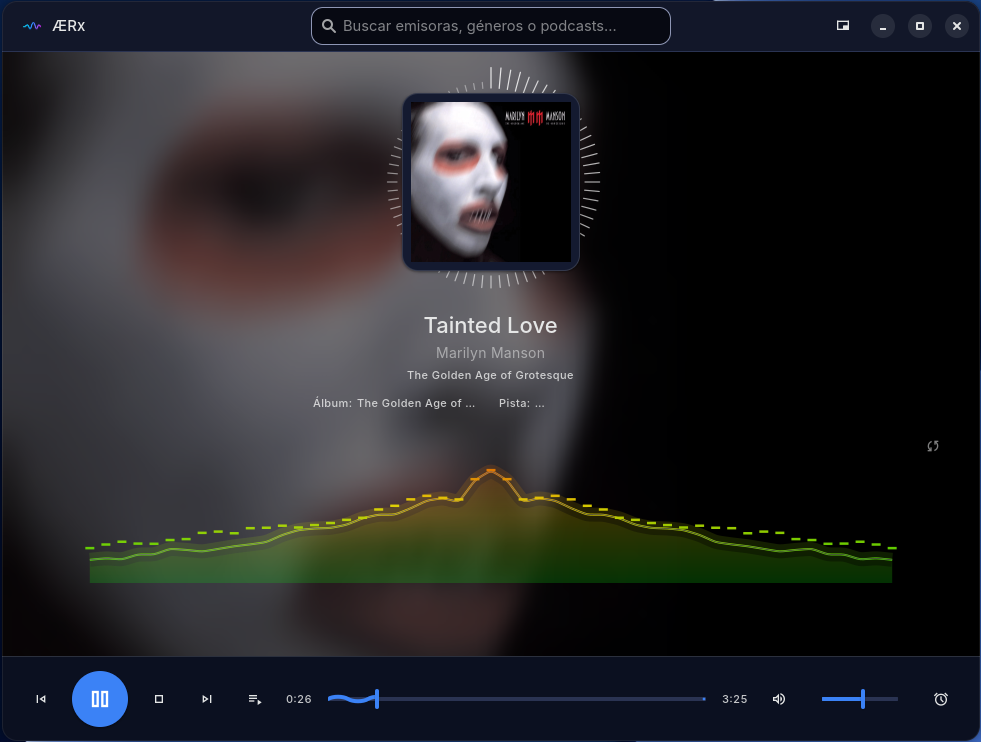
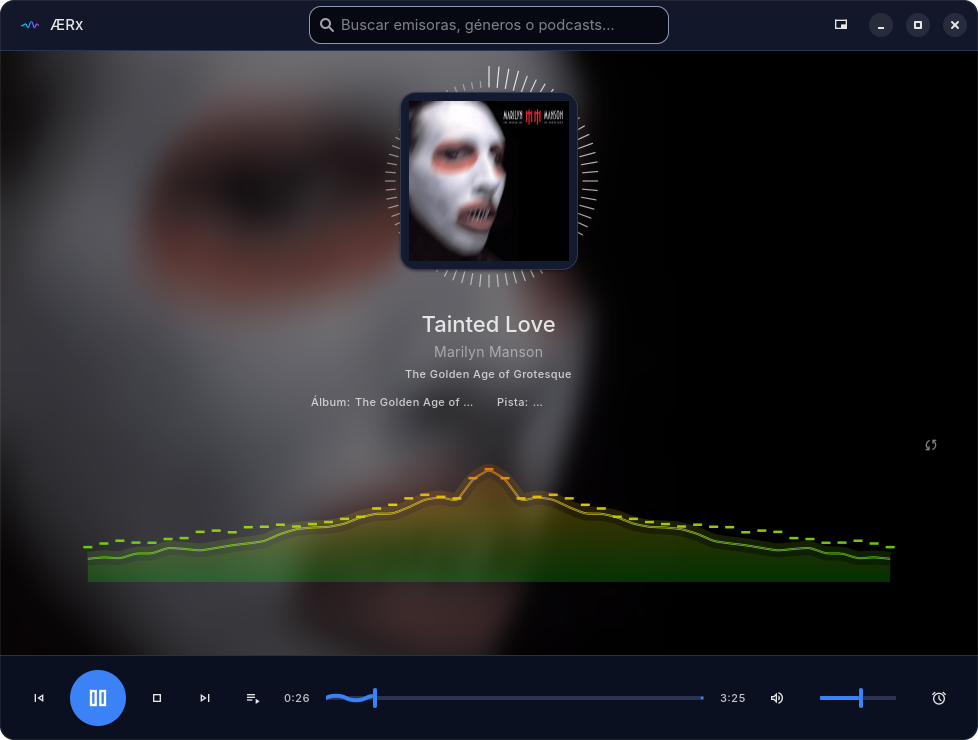
Release 1.01: nombre propio del stream de audio y capturas recortadas
- El audio se identifica ante PipeWire/PulseAudio como "ÆRx Player" en
  vez de "python3", con volumen y silencio propios en el mezclador.
- Capturas del README recortadas al borde de la ventana, con esquinas
  redondeadas transparentes.

diff --git a/main.py b/main.py
@@ -26,6 +26,13 @@ from gi.repository import (
     Gio, GdkPixbuf, Gdk, Pango,
 )
 
+# Nombre propio ante PipeWire/PulseAudio: sin esto el stream aparece como
+# "python3" y WirePlumber comparte el volumen/silencio guardado con
+# cualquier otro script de Python que reproduzca audio.
+GLib.set_application_name('ÆRx Player')
+os.environ.setdefault(
+    'PULSE_PROP', "application.name='ÆRx Player' application.icon_name=aerx-player")
+
 from player import Player
 import radio_browser
 import cover_lookup
@@ -35,7 +42,7 @@ import metadata as meta_mod
 
 Gst.init(None)
 
-APP_VERSION = '1.0'
+APP_VERSION = '1.01'
 KOFI_URL    = 'https://ko-fi.com/saruman_dev'
 
 DATA_DIR      = Path(__file__).parent / 'data'

diff --git a/README.md b/README.md
@@ -67,7 +67,7 @@
 </p>
 
 <p align="center">
-  <img alt="Modo mini-reproductor" src="assets/screenshots/mini.png" width="301">
+  <img alt="Modo mini-reproductor" src="assets/screenshots/mini.png" width="300">
   <br><sub>Modo mini-reproductor</sub>
 </p>
 
@@ -179,6 +179,7 @@ aerx-player/
 
 | Versión     | Cambios destacados |
 |-------------|-------------------|
+| 1.01        | Cambios menores. El audio se identifica ante PipeWire/PulseAudio como **ÆRx Player** (antes "python3"), con volumen y silencio propios en el mezclador del sistema en vez de compartirlos con otros programas Python. Capturas de pantalla del README recortadas al borde de la ventana. |
 | 1.0         | **Primera versión estable.** Modo mini-reproductor (carátula, fondo desenfocado/sólido, transporte, ventana redimensionada). Espectrograma frecuencia/tiempo y anillo ambiental monocromo alrededor de la carátula, nuevos en el visualizador. Osciloscopio como visualización por defecto. Slider de volumen rediseñado (línea recta, mismo grosor que el indicador de progreso). Corrige el desfase del espectrograma respecto al audio, la carátula del mini-reproductor para emisoras de radio, y anterior/siguiente en modo mini. |
 | 0.99-beta3  | **Esquemas de color** — nuevo selector en Ajustes con 22 paletas completas de temas de editor/terminal conocidos (Dracula, Nord, Catppuccin, Gruvbox, Solarized, Monokai, Ayu, Tokyo Night, Kanagawa, Rosé Pine y más), además del ÆRx por defecto. Hedge de compatibilidad CSS para libadwaita 1.6+/GTK 4.16+ (custom properties `var(--nombre)` junto a `@define-color`), confirmado en Ubuntu 26.04.1. |
 | 0.99-beta2  | Corrige el `.deb`: faltaban `hero-banner.png` y `icons/aerx-mark.svg` en el paquete, por lo que el banner y el logo no se veían tras instalar en otra máquina. |
